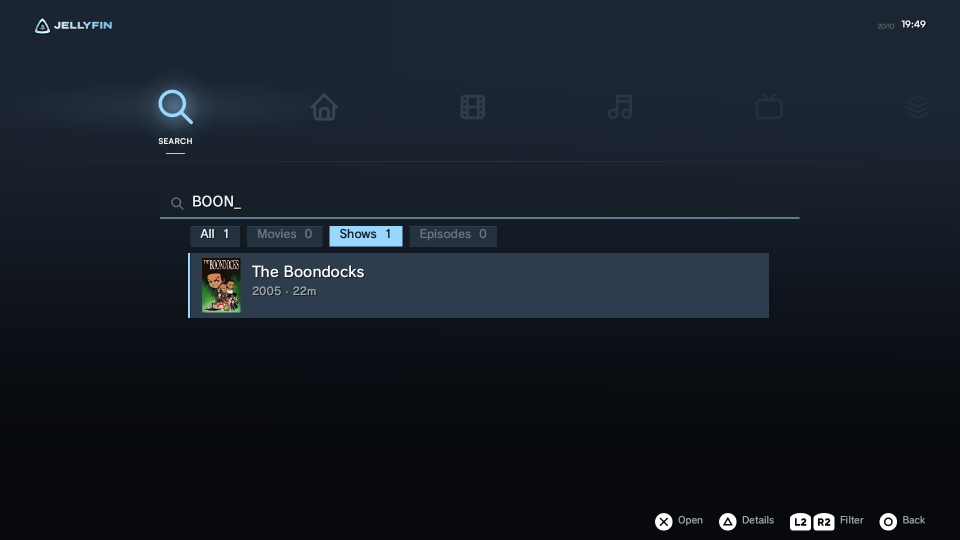
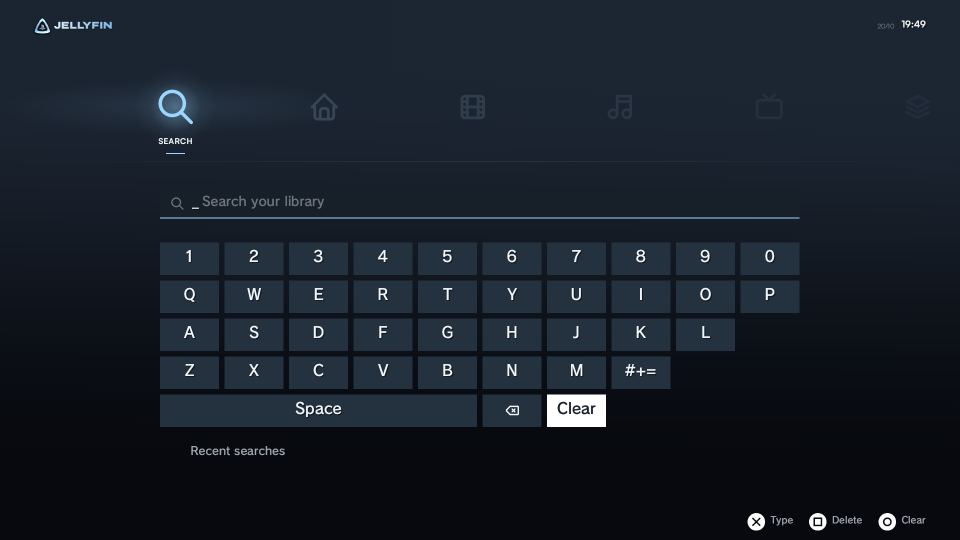
README: screenshots without film or album artwork

diff --git a/README.md b/README.md
@@ -7,7 +7,9 @@
 </div>
 
 <p align="center">
-
+  <img src="docs/screenshots/3.3/search.png" width="32%">
+  <img src="docs/screenshots/3.3/settings.png" width="32%">
+  <img src="docs/screenshots/3.3/themes.png" width="32%">
 </p>
 
 Watch your Jellyfin films, shows and music on a PS3, with a menu that looks and
@@ -26,12 +28,6 @@ All of their work is still here, I just fixed and added things on top.
 - Nine themes; each one recolours the whole app, the wave and the logo included
 - Sign in with a Quick Connect code from your phone or computer, no typing needed
 - Music player with visualisers, offline downloads, Live TV, and files from USB drives
-
-<p align="center">
-  <img src="docs/screenshots/3.3/search.png" width="32%">
-  <img src="docs/screenshots/3.3/themes.png" width="32%">
-  <img src="docs/screenshots/3.3/music.png" width="32%">
-</p>
 
 ## Install
 
